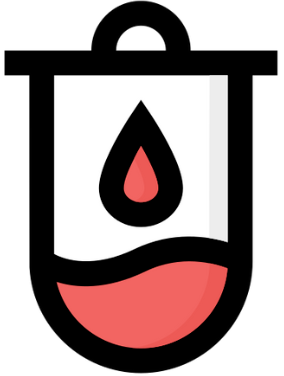
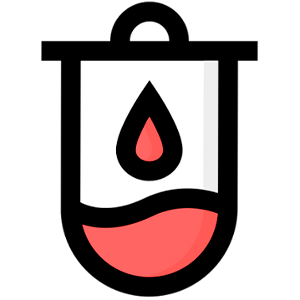
correção das imagens-cards e efeito hover no nav

diff --git a/assets/css/estrutura.css b/assets/css/estrutura.css
@@ -15,6 +15,29 @@ body {
 }
 
 /* HEADER TEMPLATE  */
+header nav a {
+    position: relative;
+    transition: color 0.3s ease;
+}
+
+header nav a::after {
+    content: "";
+    position: absolute;
+    bottom: -3px; 
+    left: 0;
+    width: 0%;
+    height: 2px; 
+    background-color: #f2f2f2; 
+    transition: width 0.3s ease;
+}
+
+header nav a:hover::after {
+    width: 100%; 
+}
+
+header nav a:hover {
+    color: #ffffff;
+}
 
 header {
     width: 100%;

diff --git a/assets/css/doador/home.css b/assets/css/doador/home.css
@@ -81,11 +81,10 @@ main {
 
 .hero-cards .card {
     background: #b53636;
-    padding: 0;
+    padding-left: 6px;
     border-radius: 30px;
     display: flex;
     align-items: center;
-    gap: 0;
     color: #f7f4f4;
     overflow: hidden;
     min-height: 110px;
@@ -105,7 +104,7 @@ main {
     object-fit: contain;
     flex-shrink: 0;
     position: relative;
-    border-radius: 0px 30px 30px 0;
+    border-radius: 26px;
 }
 
 .hero-cards .card p {
